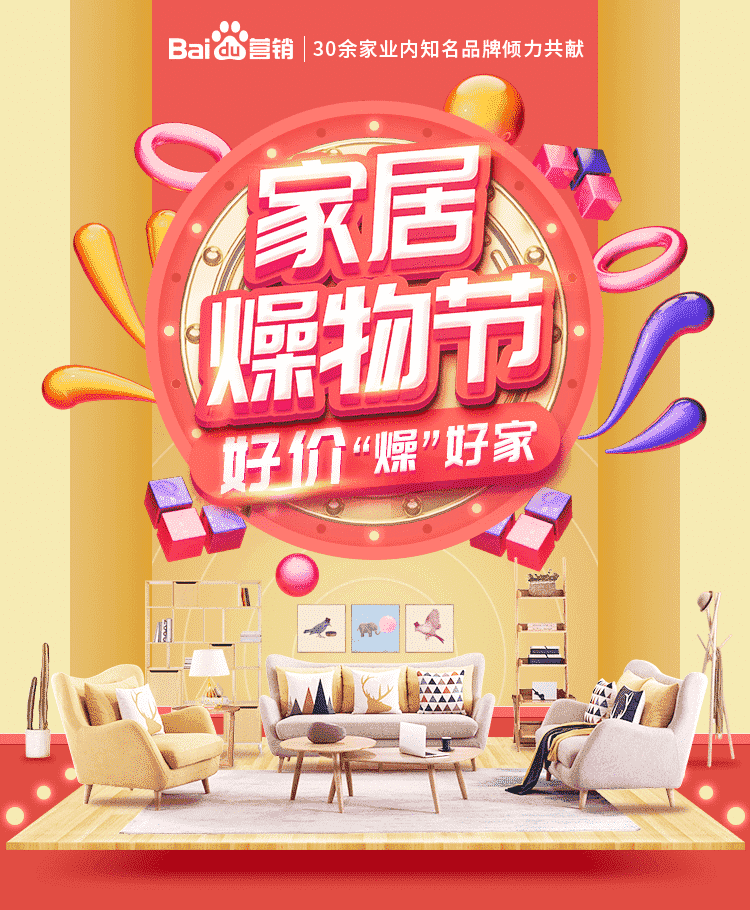
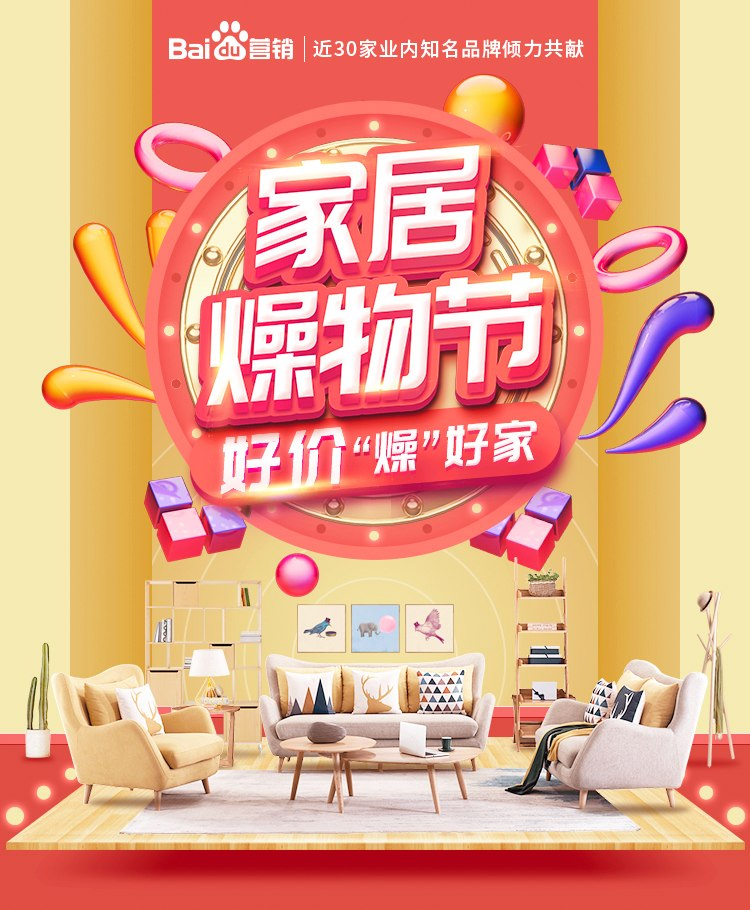
家装节概率修改

diff --git a/views/jzj.html b/views/jzj.html
@@ -220,13 +220,27 @@
             background-size:100% ;
             overflow: hidden;
         }
-        .ybj img{
+        .ybj {
             display: block;
             margin: 0 auto;
             margin-top: 2.30rem;
             width: 6.83rem;
             height: 4.77rem;
+            background: url('../public/images/jz/ppzg-ybj.png') no-repeat;
+            background-size:100% ;
             
+        }
+        .swiper-container{
+            width: 6.14rem;
+            margin: 0 auto;
+            overflow: hidden;
+        }
+        .swiper-container img{
+            width: 6.14rem;
+            height: 3.7rem;
+            margin: 0 auto;
+            display: block;
+            margin-top: .24rem;
         }
         .cp{
             margin: 0 auto;
@@ -1130,7 +1144,7 @@
         <div class="tab-list">
             <div class="tab-btn active" id="12">品牌展馆</div>
             <div class="tab-btn" id="13"> <span class="line"></span> 特惠专区</div>
-            <div class="tab-btn" id="14"> <span class="line"></span> 家具干货</div>
+            <div class="tab-btn" id="14"> <span class="line"></span> 家居干货</div>
             <div class="tab-btn" id="15"> <span class="line"></span> 抽奖专区</div>
         </div>
         <div class="tab-content">
@@ -1138,8 +1152,8 @@
                 <a href="#zzg" class="tab-smalll">整装馆 ></a>
                 <a href="#cwg" class="tab-smalll">厨卫馆 ></a>
                 <a href="#jdg" class="tab-smalll">家电馆 ></a>
-                <a href="#jjg" class="tab-smalll">智能家具馆 ></a>
-                <a href="#jjypg" class="tab-smalll">家具用品馆 ></a>
+                <a href="#jjg" class="tab-smalll">智能家居馆 ></a>
+                <a href="#jjypg" class="tab-smalll">家居用品馆 ></a>
                 <a href="#jcga" class="tab-smalll">家具建材馆 ></a>
            </div>
            <div class="thzq-c-box">
@@ -1162,7 +1176,21 @@
                     <img src="../public/images/jz/ybj-tit.png" alt="">
                </div>
                 <div class="ybj" style="position: relative;">
-                    <img src="../public/images/jz/ppzg-ybj.png" alt="">
+                   
+                    <div class="swiper-container">
+                        <div class="swiper-wrapper">
+                            <div class="swiper-slide" style="width: 100%;">
+                                <img src="../public/images/jz/lb-1.png" alt="">
+                            </div> 
+                            <div class="swiper-slide" style="width: 100%;">
+                                <img src="../public/images/jz/lb-1.png" alt="">
+                            </div>
+                            <div class="swiper-slide" style="width: 100%;">
+                                <img src="../public/images/jz/lb-1.png" alt="">
+                            </div>
+                        </div>
+                    </div>
+
                     <a href="https://aisite.wejianzhan.com/site/mingjugroup.com/216a0f32-4755-4f7e-bc45-c431649028fa"><div class="ckgd"></div></a>
                     
                 </div>
@@ -1300,9 +1328,10 @@
                     
                 </div>
                 <div>
-                    <a href="https://detail.tmall.com/item.htm?spm=a1z10.1-b-s.w16147682-22559681189.1.3ae955dcNIIwr0&id=533900639197&scene=taobao_shop"></a>
-                    
-                    <a href="https://www.zwilling.com.cn/item/ZWC018"> <div class="jjth-sp"></div></a>
+                   
+                    <a href="https://detail.tmall.com/item.htm?spm=a1z10.1-b-s.w16147682-22559681189.1.3ae955dcNIIwr0&id=533900639197&scene=taobao_shop"> <div class="jjth-sp"></div></a>
+                    <a href="https://www.zwilling.com.cn/item/ZWC018"><div class="jjth-sp"></div></a>
+        
                    
                     
                 </div>
@@ -1365,6 +1394,10 @@
     window.idMap={"yyzj": '0',"gz": '6',"dcf": '1',"ppxsz": '2',"xdzj": '4',"yx": '5',"qjth": '7',"hyd": '10',"dkx": '11','zcyc':'3'}
     window.zlycList=['3','8','9']
     window.jp=''
+    var mySwiper = new Swiper('.swiper-container', {
+        autoplay: true,
+        loop: true,
+    })
     if(!localStorage.getItem('cjcs')){
         localStorage.setItem('cjcs','3')
         cjcs=3
@@ -1517,8 +1550,17 @@
         video.pause();
     
         $('.sp-mask').fadeOut()
-    }); 
-
+    });
+    $(document).scroll(function(){
+        var $top = parseInt($(window).scrollTop());
+        console.log($top)
+		if($top>=431){
+			$(".tab").css({"position":"fixed","top":'.31rem',"z-index":5,'left':'50%','transform':'translateX(-50%)'});
+		}else{
+			$(".tab").css({"position":"relative",'top':0,'left':0,'transform':'translateX(0)'});
+		}
+	});
+    
   
 </script>
 </html>

diff --git a/controllers/apiController.js b/controllers/apiController.js
@@ -79,7 +79,7 @@ let jzjluckDraw =async function ( req,res) {
 	let sum = 0;
 	let section = [0];
 	let newArr =[];
-	let prizeNumber =Math.floor(Math.random() * 100);
+	let prizeNumber =Math.floor(Math.random() * 200);
 	let allPrize='';
 	let count =0;
 	let prizeName ='';
